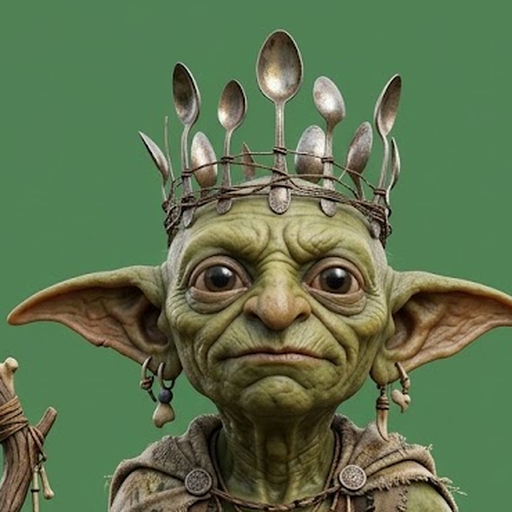
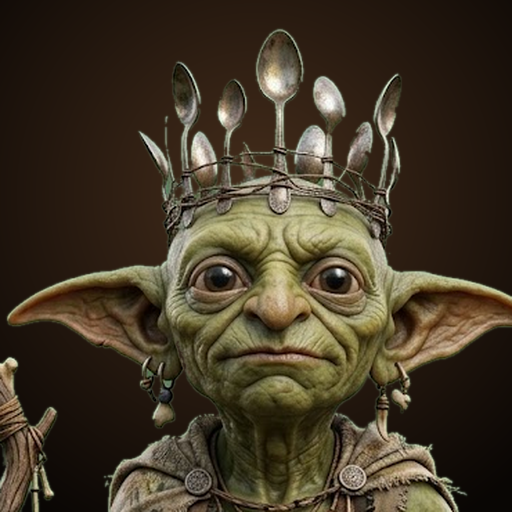
UI overhaul part 2: dialogue, choices, HUD, minimap, combat themed; steady mouse hover; speed mode = faster voices
- Dialogue box + choices use UITheme (themed rows, name colors readable on Parchment, box grows with text size)
- HUD: objective/toast plates, leader portrait frame, Cinzel title/prompt; minimap frame themed
- Combat: themed menu panel/rows, party cards, tips, results, timeline (fights stay dark on Parchment)
- Hover only follows real mouse movement (UITheme.hover_moved/key_nav), MenuUI reserves note height,
  bounce animates row content not the hit area
- Speed mode: voices 1.5x (pitch-corrected VoiceFast bus), text at normal speed
- Library: every song credited to Ebain; troll chest opens on "It's good" too; chief portrait keyed onto a dark backdrop

Claude-Session: https://claude.ai/code/session_01HdXANgUmGB68j7j86a8WZ6

diff --git a/HANDOFF.md b/HANDOFF.md
@@ -243,6 +243,10 @@ anything repeated, and turn off shadows on far scenery (see `_no_shadow` in pass
   `can_resume()` / `can_resume_saved()` / `_resume(r)`; see camp.gd and village.gd). Anywhere else, a save keeps the
   state from when you **entered** the area, so loading replays that area from its start instead of landing mid-cutscene.
   Only `Game` state is saved, so story facts that matter later must be `Game.flags`.
+- **UI looks everywhere** (UI overhaul part 2): the dialogue box, choices, HUD plates (objective, toasts, leader
+  portrait), minimap frame and combat menus/cards/results all use UITheme and restyle on `Game.ui_changed`. Fights
+  always use a dark theme (`battle_view._th()`: Parchment → Gold & Night). Text size also grows the dialogue box.
+  Mouse hover only moves a highlight on real mouse movement (`UITheme.hover_moved` / `key_nav`), see TIPS.
 - **Settings** (title + Esc menu), split into pages: **Audio** (master, music, sound effects, voice volume, voices,
   area music loop/once) · **Display & UI** (menu theme, UI size = root `content_scale_factor` 80–130%, text size 85–130%,
   menu animations Bouncy/Calm, window, VSync, graphics) · **Dialogue** (text speed, buffer, go back, speed mode) ·
@@ -252,7 +256,7 @@ anything repeated, and turn off shadows on far scenery (see `_no_shadow` in pass
   `bus = &"Music"` before `add_child` (title.gd, area_music.gd, library_ui.gd do).
 - **Controller:** left stick/d-pad move, right stick or LB/RB camera, A talk/confirm, B run (hold) / back in menus,
   Y switch leader, Back = party, Start = menu. Number keys 1–9 pick dialogue choices.
-- **Dialogue controls** (`dialogue.gd`, Settings → Dialogue buffer / Go back / Speed mode): **E / Space / click** finishes the typing, and the next press has to wait out the **buffer** (Off/Short 0.2/Normal 0.4/Long 0.8 s) so lines can't be mashed through. **Backspace** replays the previous line (and its voice) but only if the step before it is also a plain line: it can't go back over an action (`do`) or a choice. **Speed mode** (button at the bottom-left of the dialogue box, asks Yes/No; off with one click or in Settings) removes the buffer and types 2x faster. Settings are saved in `Game.dlg_buffer/dlg_back/dlg_speed`. Keyboard/mouse only: no controller button for back.
+- **Dialogue controls** (`dialogue.gd`, Settings → Dialogue buffer / Go back / Speed mode): **E / Space / click** finishes the typing, and the next press has to wait out the **buffer** (Off/Short 0.2/Normal 0.4/Long 0.8 s) so lines can't be mashed through. **Backspace** replays the previous line (and its voice) but only if the step before it is also a plain line: it can't go back over an action (`do`) or a choice. **Speed mode** (button at the bottom-left of the dialogue box, asks Yes/No; off with one click or in Settings) removes the buffer and makes the **voices** 1.5x faster (Ebain 11/24: speed mode is for the voices, not the text). Recorded lines play at `pitch_scale` 1.5 on a runtime `VoiceFast` bus with a pitch-shift effect, so they don't sound like chipmunks; the robot voice gets `rate` × 1.5. Text types at the normal speed. Settings are saved in `Game.dlg_buffer/dlg_back/dlg_speed`. Keyboard/mouse only: no controller button for back.
 
 ### Combat in one paragraph
 Fights happen right where you're standing: `await fight("giant", { enemies = [unit], mods = { enraged = true } })`.
@@ -318,6 +322,10 @@ Grab-able work is on the board in `COLLAB.md` ("Up next"). Longer-running items:
   battle, boss, mountain/pass, victory jingle, "YOU GOT COOKED" sting. A new area track = add an AreaMusic node to
   that area's .tscn, and add it to `LibraryUI.SONGS` + `Lyrics.TEXT` so it shows in the Library.
 - **Lyrics:** Ebain will send lyrics for all 3 songs. Paste them into `scripts/lyrics.gd` as-is.
+- **Every song is Ebain's** (Prophecy of Metocy, The Mogging Elf, The Hymn of Metocin Mattias), made in Google Flow Music.
+  Older notes that call the hymn "Asar's track" are wrong: Asar wired it into the summit, Ebain made it.
+- **Secret Deloye Lore area (idea, not built):** Ebain wants it as a hidden easter-egg area, not on the normal route.
+  Before building, ask him: how you find it, what's inside, whether it gets its own song.
 - **Credits:** asked Ebain whether to keep "Code, Cutouts & Sounds: Claude". No answer yet.
 - **Chapter 2+:** Dulbers returns as a villain.
 

diff --git a/TIPS.md b/TIPS.md
@@ -163,6 +163,12 @@ fix or delete it and say so in the COLLAB Log. Anyone can edit any line here; no
 - [ebain] **Audio buses are made at runtime** (`Game._make_buses`). New music player? set `bus = &"Music"` BEFORE
   add_child, or `_route_audio` moves it to SFX. Voice-type players: name the var `_vo` on its parent to stay on Master.
 - [ebain] Fonts: Cinzel has no ◆ ▶ ✓ 🏆 glyphs. Draw them (`UITheme.Icon`, `Divider`) instead of putting them in text.
+- [ebain] **Hover = real mouse movement only.** For any hoverable row/button, select it in `gui_input` with
+  `if UITheme.hover_moved(ev)`, never `mouse_entered` (that fires when the layout moves under a still cursor, which made
+  menus "jump to the next one", Ebain 11/24). Call `UITheme.key_nav()` when keys/controller move the selection.
+  Also keep panels from changing height while you move (MenuUI reserves the tallest note; battle menus the tallest desc).
+- [ebain] Portraits are opaque squares with a dark backdrop. A green-screen portrait (chief.png had one) needs keying by
+  distance to the backdrop color + flood from the border, NOT by greenness: goblin skin is green too.
 - [ebain] UI logic test: `godot --headless --path godot res://tools/test_ui.tscn` → "UI TEST: ALL OK" (keybinds,
   buses, Library unlocks, every settings page in every theme).
 - [ebain] After rebasing onto someone's new `class_name` (e.g. ProgressData), tours fail with thousands of errors until
